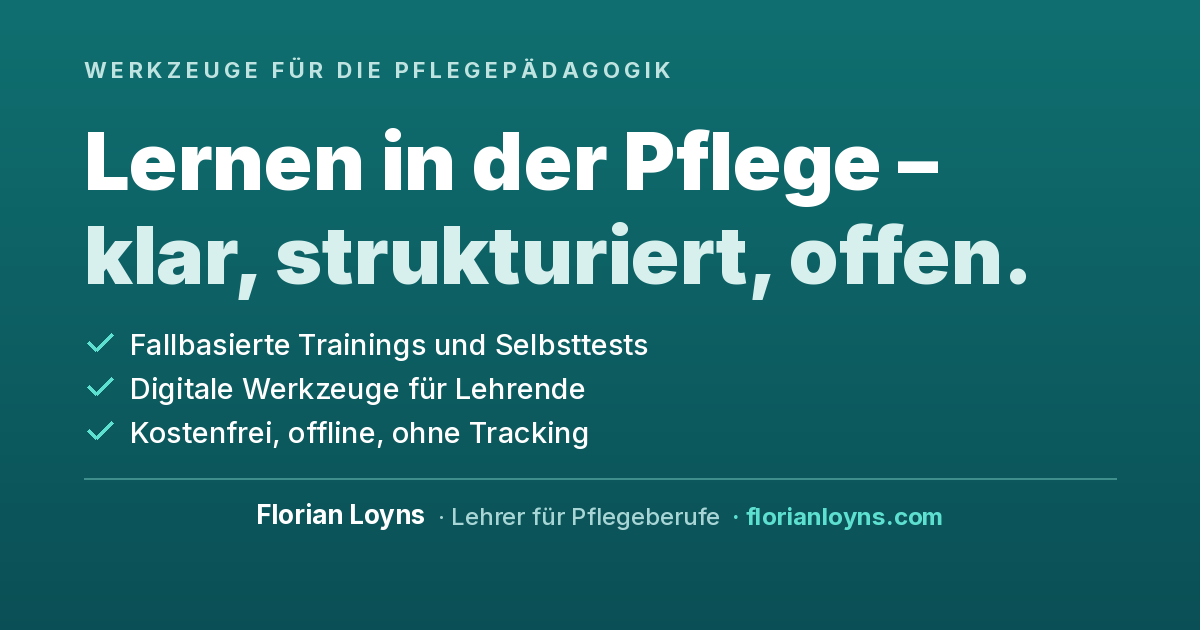
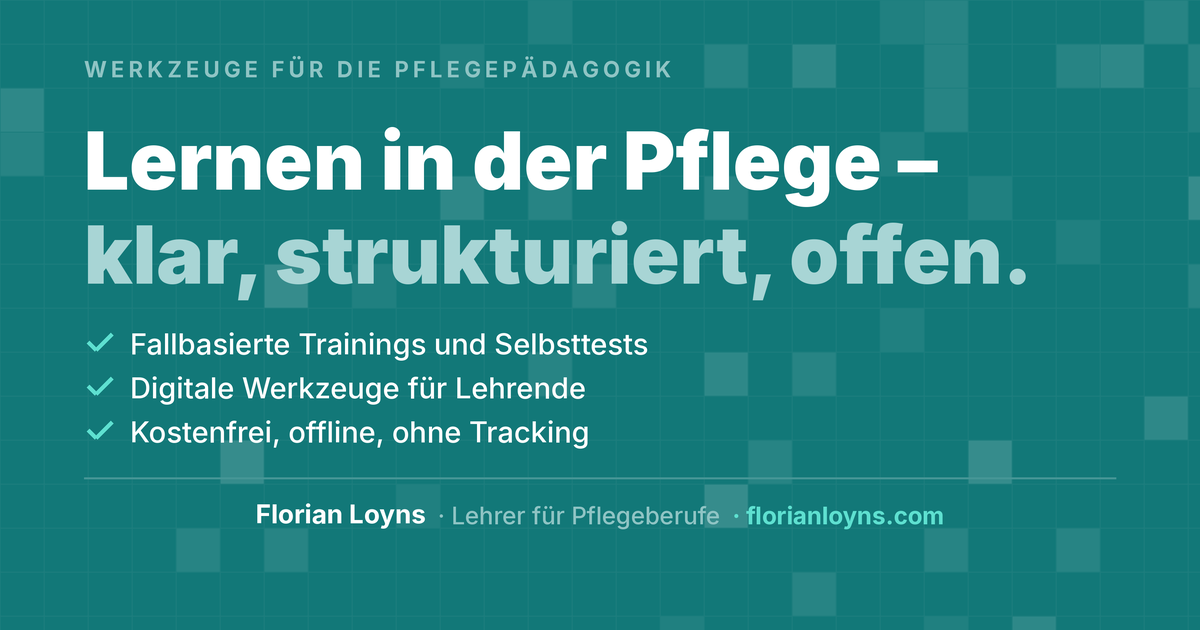
Add files via upload

diff --git a/index.html b/index.html
@@ -23,7 +23,7 @@
   <meta property="og:url" content="https://florianloyns.com/">
   <meta property="og:title" content="Florian Loyns – Werkzeuge für die Pflegepädagogik">
   <meta property="og:description" content="Kostenlose Lern-Apps, Selbsttests und Rechner für die generalistische Pflegeausbildung – dazu Unterrichtswerkzeuge für Lehrende. Offline nutzbar, open source. Von Florian Loyns, Lehrer für Pflegeberufe.">
-  <meta property="og:image" content="https://florianloyns.com/og-image.png?v=2">
+  <meta property="og:image" content="https://florianloyns.com/og-image.png?v=3">
   <meta property="og:image:width" content="1200">
   <meta property="og:image:height" content="630">
   <meta property="og:image:alt" content="Werkzeuge und Selbsttests für die Pflegepädagogik">
@@ -33,7 +33,7 @@
   <meta name="twitter:card" content="summary_large_image">
   <meta name="twitter:title" content="Florian Loyns – Werkzeuge für die Pflegepädagogik">
   <meta name="twitter:description" content="Kostenlose Lern-Apps, Selbsttests und Rechner für die generalistische Pflegeausbildung – dazu Unterrichtswerkzeuge für Lehrende. Offline nutzbar, open source. Von Florian Loyns, Lehrer für Pflegeberufe.">
-  <meta name="twitter:image" content="https://florianloyns.com/og-image.png?v=2">
+  <meta name="twitter:image" content="https://florianloyns.com/og-image.png?v=3">
 
   <!-- Structured Data -->
   <script type="application/ld+json">
@@ -622,6 +622,9 @@
       --border: #e5e7eb;
       --star: var(--teal);
       --on-accent: #ffffff;
+      /* Akzentfarbe der Medien (og-image, LinkedIn-Banner). Auf Weiß nur 1,6:1,
+         deshalb hier bewusst ungenutzt – sie trägt erst auf dunklem Grund. */
+      --mint: #5ee0d0;
       color-scheme: light;
     }
     /* Dunkle Palette an genau einer Stelle gepflegt: einmal für die
@@ -632,7 +635,7 @@
       --marine: #7dd3fc; --marine-dark: #38bdf8; --marine-soft: rgba(125,211,252,.1);
       --ink: #f1f5f9; --body: #cbd5e1; --muted: #94a3b8;
       --bg: #0f172a; --surface: #1e293b; --border: #334155;
-      --star: var(--teal);
+      --star: var(--mint);
       --on-accent: #0f172a;
       color-scheme: dark;
       }
@@ -642,7 +645,7 @@
       --marine: #7dd3fc; --marine-dark: #38bdf8; --marine-soft: rgba(125,211,252,.1);
       --ink: #f1f5f9; --body: #cbd5e1; --muted: #94a3b8;
       --bg: #0f172a; --surface: #1e293b; --border: #334155;
-      --star: var(--teal);
+      --star: var(--mint);
       --on-accent: #0f172a;
       color-scheme: dark;
     }
@@ -928,6 +931,11 @@
     }
     .card.teal   .features li::before { color: var(--teal); }
     .card.marine .features li::before { color: var(--marine); }
+    /* Im dunklen Modus dieselbe Rolle und dieselbe Farbe wie die Haken im og-image */
+    [data-theme="dark"] .card .features li::before { color: var(--mint); }
+    @media (prefers-color-scheme: dark) {
+      :root:not([data-theme="light"]) .card .features li::before { color: var(--mint); }
+    }
 
     .card .steps {
       margin: 0 0 4px;
